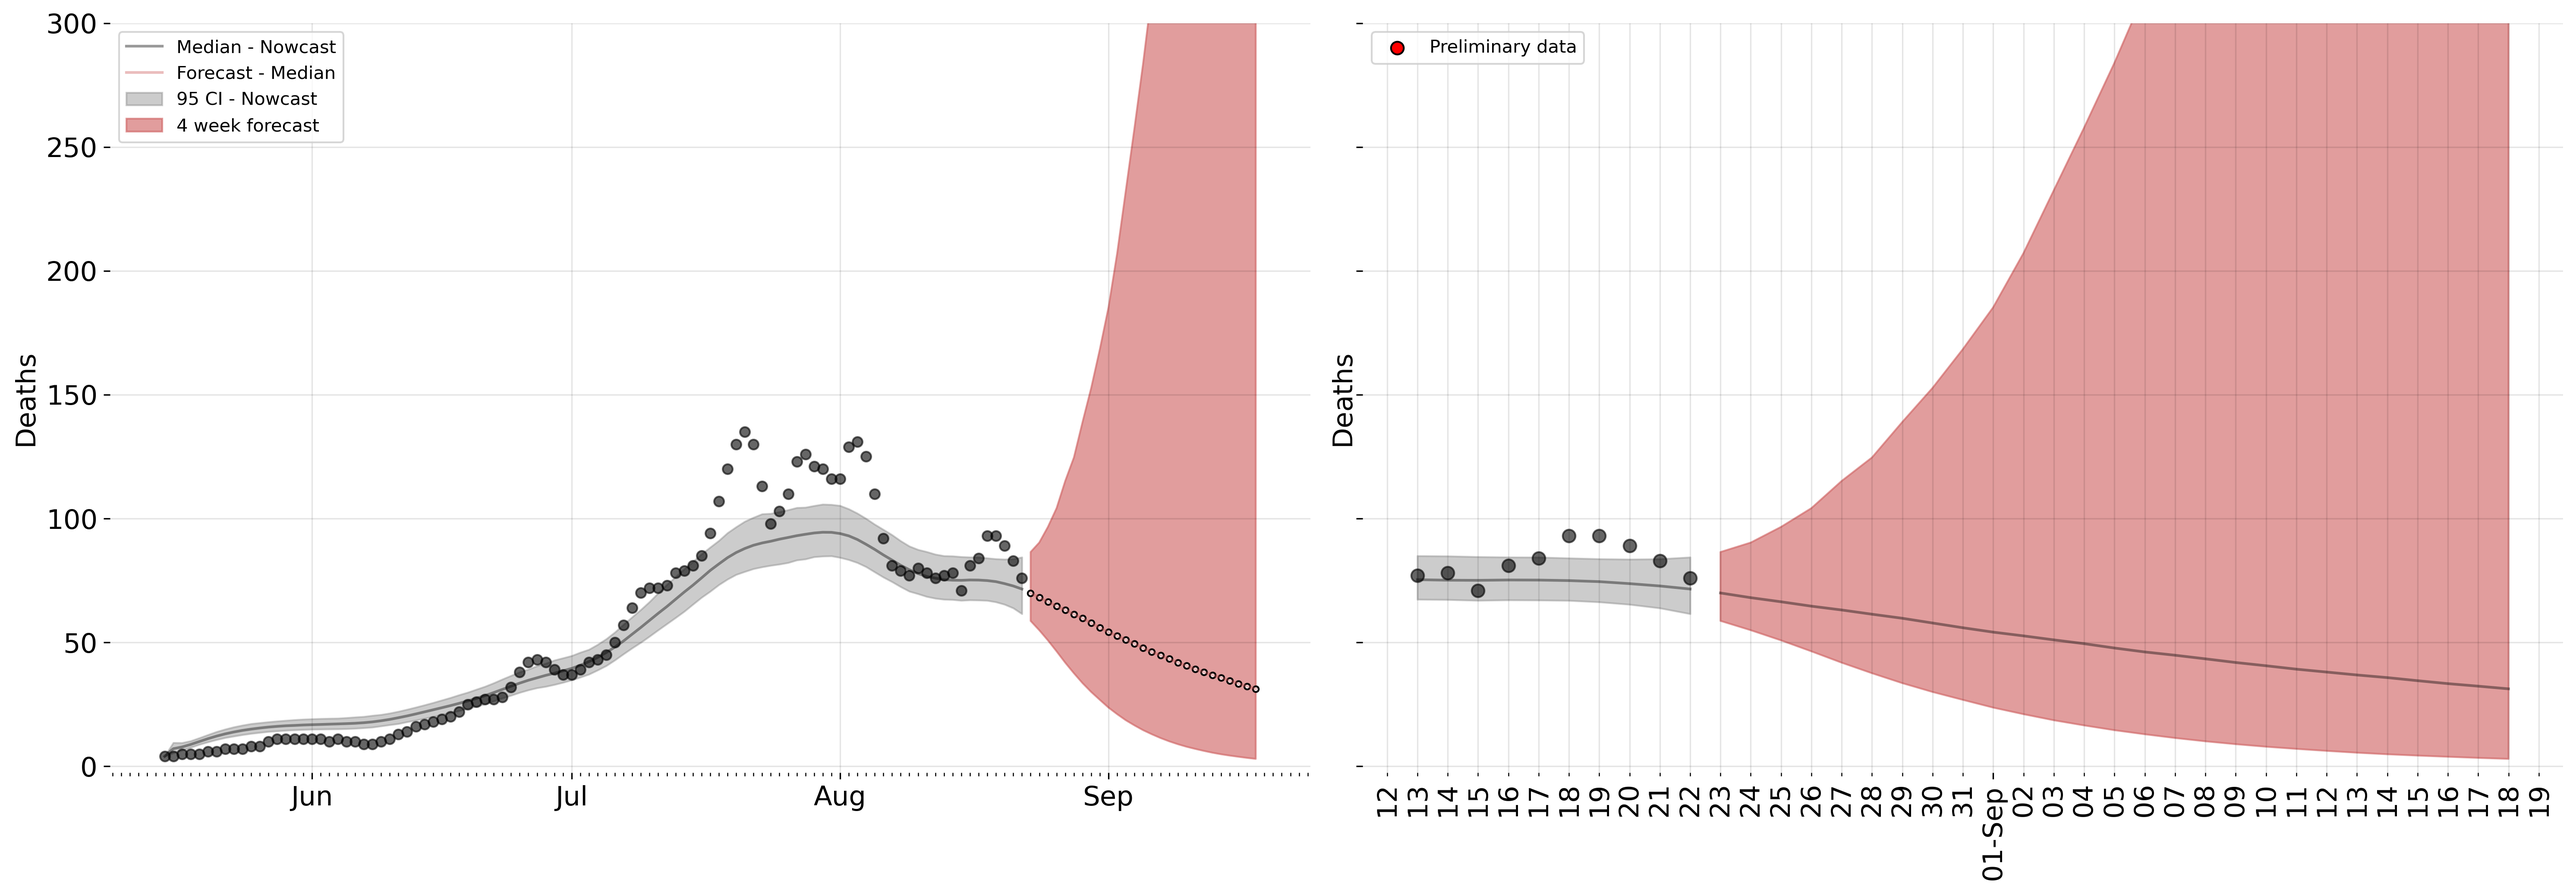
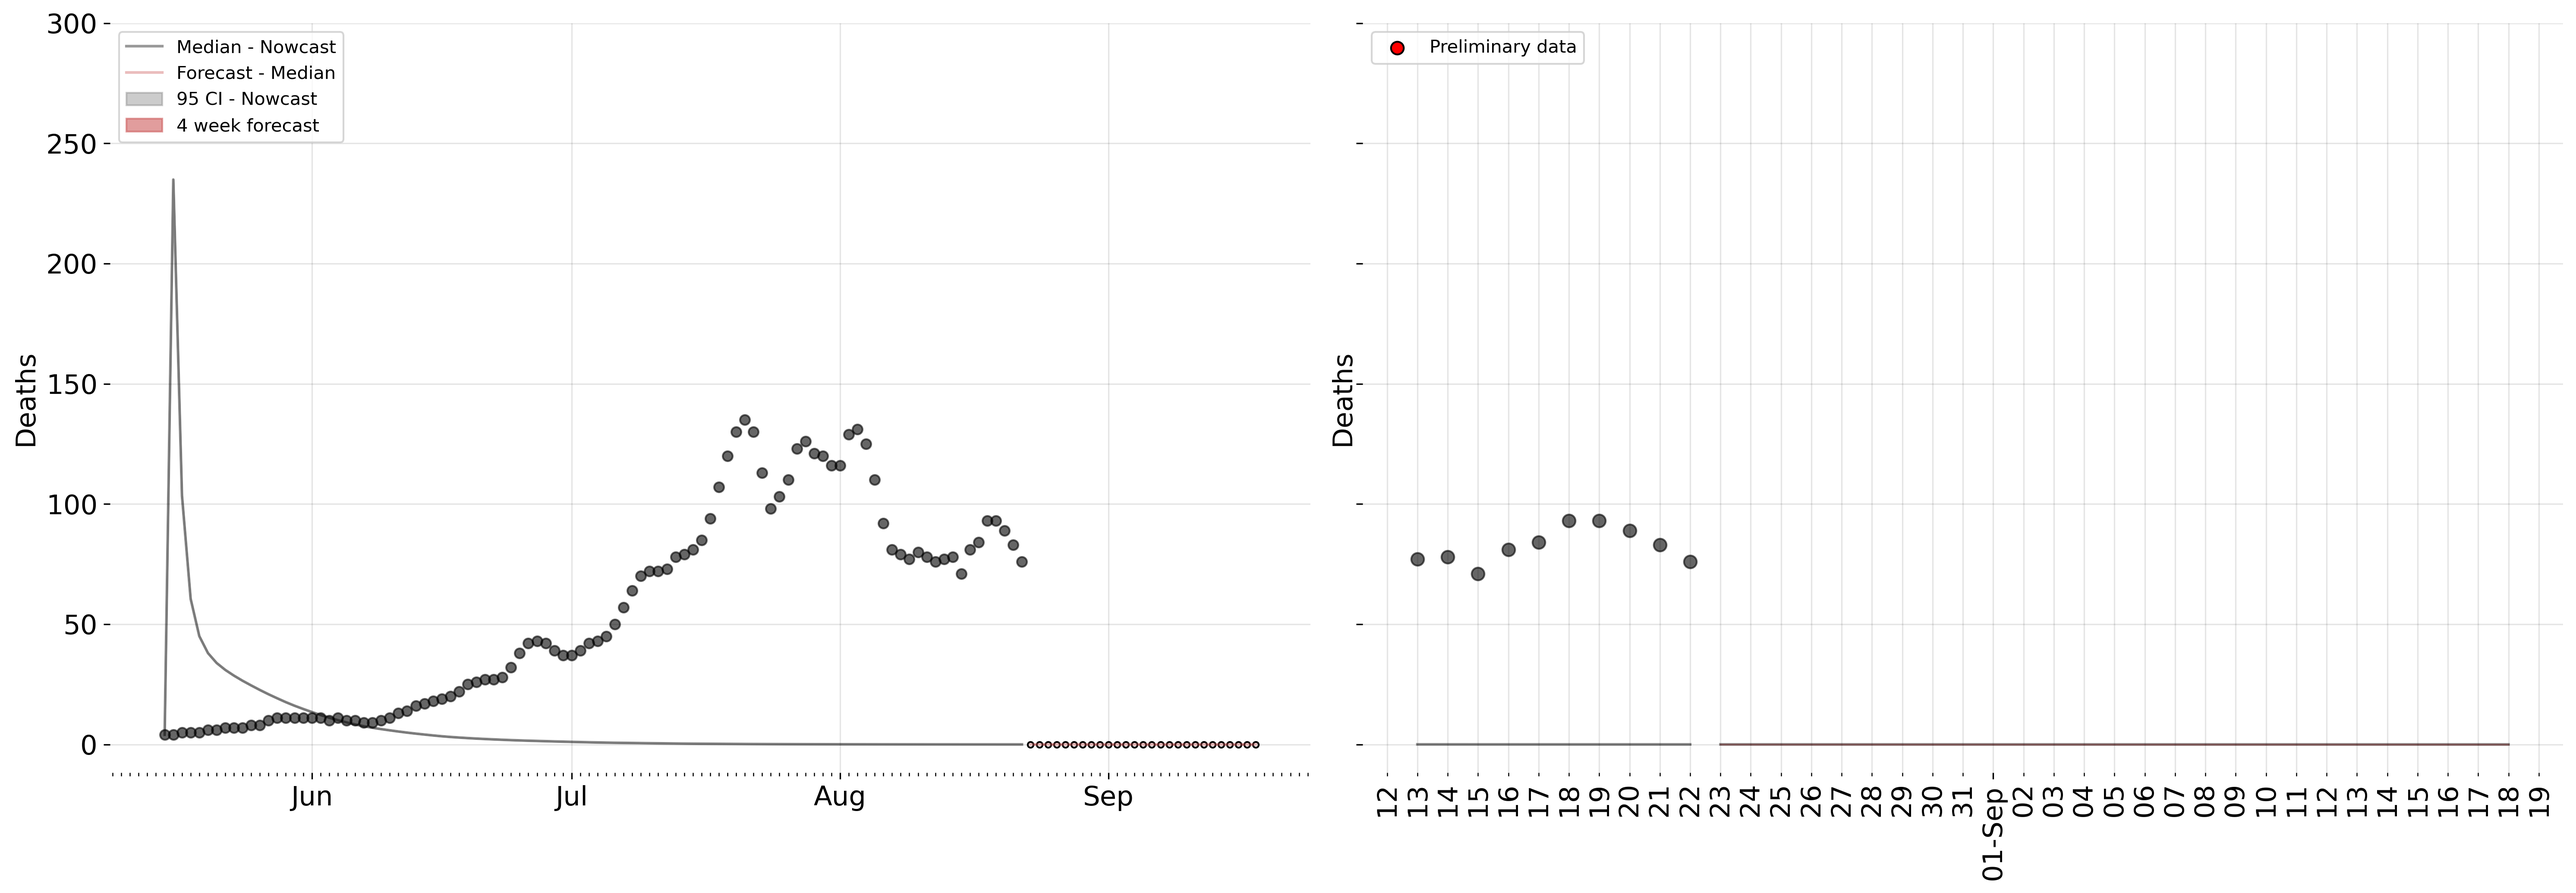
updating quantiles estimates

diff --git a/models/seirhd_model.py b/models/seirhd_model.py
@@ -24,32 +24,31 @@ class CompartmentModel(object):
         Compute time derivative
         '''
         raise NotImplementedError()
-        return
 
 
     @classmethod
-    def run(cls, T, x0, theta, **kwargs):
+    def run(cls, tspan, x0, theta, **kwargs):
         # Theta is a tuple of parameters. Entries are
         # scalars or vectors of length T-1
         is_scalar = [np.ndim(a)==0 for a in theta]
         if onp.all(is_scalar):
-            return cls._run_static(T, x0, theta, **kwargs)
+            return cls._run_static(tspan, x0, theta, **kwargs)
         else:
-            return cls._run_time_varying(T, x0, theta, **kwargs)
+            return cls._run_time_varying(tspan, x0, theta, **kwargs)
 
     @classmethod
-    def _run_static(cls, T, x0, theta, rtol=1e-5, atol=1e-3, mxstep=500):
+    def _run_static(cls, tmax, x0, theta, rtol=1e-5, atol=1e-3, mxstep=500):
         '''
         x0 is shape (d,)
         theta is shape (nargs,)
         '''
-        t = np.arange(T, dtype='float') + 0.
+        t = np.arange(tmax, dtype='float') + 0.
         return odeint(cls.dx_dt, x0, t, *theta)
 
     @classmethod
-    def _run_time_varying(cls, T, x0, theta, rtol=1e-5, atol=1e-3, mxstep=500):
+    def _run_time_varying(cls, tmax, x0, theta, rtol=1e-5, atol=1e-3, mxstep=500):
 
-        theta = tuple(np.broadcast_to(a, (T-1,)) for a in theta)
+        theta = tuple(np.broadcast_to(a, (tmax-1,)) for a in theta)
 
         '''
         x0 is shape (d,)
@@ -62,7 +61,7 @@ class CompartmentModel(object):
             return x1, x1
 
         # Run T–1 steps of the dynamics starting from the intial distribution
-        _, X = jax.lax.scan(advance, x0, theta, T-1)
+        _, X = jax.lax.scan(advance, x0, theta, tmax-1)
         return np.vstack((x0, X))
 
     @classmethod
@@ -253,13 +252,13 @@ class SEIRModel(CompartmentModel):
         S, E, I, R, C = x
         N = S + E + I + R
 
-        dS_dt = - beta * S * I / N
-        dE_dt = beta * S * I / N - sigma * E
-        dI_dt = sigma * E - gamma * I
-        dR_dt = gamma * I
-        dC_dt = sigma * E  # incidence
+        sdot = - beta * S * I / N
+        edot = beta * S * I / N - sigma * E
+        idot = sigma * E - gamma * I
+        rdot = gamma * I
+        cdot = sigma * E  # incidence
 
-        return np.stack([dS_dt, dE_dt, dI_dt, dR_dt, dC_dt])
+        return np.stack([sdot, edot, idot, rdot, cdot])
 
     @classmethod
     def R0(cls, theta):
@@ -281,7 +280,7 @@ class SEIRModel(CompartmentModel):
     @classmethod
     def seed(cls, N=1e6, I=100., E=0.):
         '''
-        Seed infection. Return state vector for I exponsed out of N
+        Seed infection. Return state vector for I exposed out of N
         '''
         return np.stack([N-E-I, E, I, 0.0, I])
 
@@ -362,18 +361,18 @@ class SEIRHDModel(SEIRModel):
         S, E, I, R, H, U, D, C = x
         N = S + E + I + R + H + D
 
-        dS_dt = - beta * S * I / N
-        dE_dt = beta * S * I / N - sigma * E
-        dI_dt = sigma * E - gamma * (1 - hosp_prob) * I - gamma * hosp_prob * I
-        dH_dt = hosp_prob * gamma * I - death_rate * death_prob * H - gamma * (1 - death_prob) * H
-        dR_dt = gamma * (1-death_prob) * H + gamma * (1 - hosp_prob) * I
+        sdot = - beta * S * I / N
+        edot = beta * S * I / N - sigma * E
+        idot = sigma * E - gamma * (1 - hosp_prob) * I - gamma * hosp_prob * I
+        hdot = hosp_prob * gamma * I - death_rate * death_prob * H - gamma * (1 - death_prob) * H
+        rdot = gamma * (1-death_prob) * H + gamma * (1 - hosp_prob) * I
 
 
-        dU_dt = hosp_prob * gamma * I       # Cum hosp
-        dD_dt = death_rate * death_prob * H # Cum deaths
-        dC_dt = beta * S * I / N                # Cum incidence
+        udot = hosp_prob * gamma * I       # Cum hosp
+        ddot = death_rate * death_prob * H # Cum deaths
+        cdot = beta * S * I / N                # Cum incidence
 
-        return np.stack([dS_dt, dE_dt, dI_dt, dR_dt, dH_dt, dU_dt, dD_dt, dC_dt])
+        return np.stack([sdot, edot, idot, rdot, hdot, udot, ddot, cdot])
 
     @classmethod
     def seed(cls, N=1e6, I=100., E=0., R=0.0, U=0.0, H=0.0, D=0.0):
@@ -432,6 +431,8 @@ class SEIRHD(SEIRHDBase):
                  det_prob_conc = 50.,
                  confirmed_dispersion=0.3,
                  death_dispersion=0.3,
+                 hosp_prob  = 0.2,
+                 death_prob = 0.01,
                  hosp_dispersion=0.3,
                  rw_scale = 2e-1,
                  det_noise_scale=0.15,
@@ -497,10 +498,10 @@ class SEIRHD(SEIRHDBase):
                                               (1-.9) * 100))
 
         death_prob = numpyro.sample("death_prob",
-                                    dist.Beta(0.01 * 100, (1-0.01) * 100))
+                                    dist.Beta(death_prob * 100, (1-death_prob) * 100))
 
         hosp_prob = numpyro.sample("hosp_prob",
-                                    dist.Beta(0.2 * 100, (1-0.2) * 100))
+                                    dist.Beta(hosp_prob * 100, (1-hosp_prob) * 100))
                                     #dist.Beta(0.02 * 1000, (1-0.02) * 1000))
 
         death_rate = numpyro.sample("death_rate",

diff --git a/estimate_h.py b/estimate_h.py
@@ -43,8 +43,6 @@ data_all = data_all.dropna()
 # ax_tw.legend()
 # plt.show()
 
-
-
 data_all = data_all.resample('D').sum().fillna(0)[['num_cases','num_diseased', 'hospitalized']]
 data_all  = prepare_cases(data_all, col='num_cases', cutoff=0)
 data_all  = prepare_cases(data_all, col='num_diseased', cutoff=0)
@@ -60,6 +58,7 @@ model = SEIRHD(
     death            = data_all['death'].cumsum(),
     T                = len(data_all),
     N                = 8181047,
+    hosp_prob        = 0.1
     )
 
 T_future = 27
@@ -91,7 +90,13 @@ from functions.samples_utils import create_df_response
 df_hosp   = create_df_response(hosp_fitted, time=len(data_all), date_init ='2020-05-15',  forecast_horizon=27, use_future=True)
 df_deaths = create_df_response(deaths_fitted, time=len(data_all), date_init ='2020-05-15',  forecast_horizon=27, use_future=True)
 df_cases  = create_df_response(cases_fitted, time=len(data_all), date_init ='2020-05-15',  forecast_horizon=27, use_future=True)
+
+beta_samples = np.concatenate((np.expand_dims(samples["beta0"],-1), samples["beta"] ), axis=1)
+df_contact_rate  = create_df_response(beta_samples , time=beta_samples.shape[-1], date_init ='2020-05-15',  forecast_horizon=27, use_future=False)
+
+
 from functions.plot_utils import plot_fit
+from functions.plot_utils import *
 
 data_all['type'] = 'fitted'
 plot_fit(df_deaths, data_all, col_data='death',   y_lim_up = 300, y_label='Deaths', color='indianred', path_to_save='figures/mcmc_2/deaths.png')
@@ -99,6 +104,29 @@ plot_fit(df_cases,  data_all, col_data='confirmed',  y_lim_up = 7000,  y_label='
 plot_fit(df_hosp, data_all,   col_data='hospitalized',   y_lim_up = 5000, y_label='Hospitalization', color='blue', path_to_save='figures/mcmc_2/hosp.png')
 
 
+fig, ax = plt.subplots(1, 1, figsize=(15.5, 7))
+ax.plot(df_contact_rate.index.values, df_contact_rate["median"], color='darkred', alpha=0.4, label='Median - Nowcast')
+ax.fill_between(df_contact_rate.index.values, df_contact_rate["low_95"], df_contact_rate["high_95"], color='darkred', alpha=0.4, label='95 CI - Nowcast')
+ax.fill_between(df_contact_rate.index.values, df_contact_rate["low_80"], df_contact_rate["high_80"], color='darkred', alpha=0.4, label='95 CI - Nowcast')
+ax.fill_between(df_contact_rate.index.values, df_contact_rate["low_50"], df_contact_rate["high_50"], color='darkred', alpha=0.4, label='95 CI - Nowcast')
+(y1_l, y2_l) = ax.get_ylim()
+# ax.scatter(dates_forecast, median[num_times-1:num_times+num_forecast-1], edgecolor='k', facecolor='white')#, label='Deaths')
+ax.xaxis.set_major_locator(mdates.MonthLocator())
+ax.xaxis.set_major_formatter(mdates.DateFormatter('%b'))
+ax.xaxis.set_minor_locator(mdates.DayLocator())
+ax.xaxis.set_major_locator(mdates.WeekdayLocator())
+ax.xaxis.set_major_locator(mdates.MonthLocator())
+ax.spines['top'].set_visible(False)
+ax.spines['right'].set_visible(False)
+ax.spines['left'].set_visible(False)
+ax.spines['bottom'].set_visible(False)
+ax.grid(which='major', axis='y', c='k', alpha=.1, zorder=-2)
+ax.tick_params(axis='both', labelsize=15)
+ax.yaxis.set_major_formatter(ticker.StrMethodFormatter("{x:.1f}"))
+#ax.axvline(x = 37, linestyle='--',  label = '{}'.format(dates[-1].strftime('%b-%d')))
+ax.set_ylabel(r'$\beta(t)$ - Contact Rate', size=15)
+fig.savefig(os.path.join('figures', 'mcmc_2', 'contact_rate.png'), dpi=300, bbox_inches='tight', transparent=False)
+plt.close()
 
 save_fields=['beta0', 'beta', 'sigma', 'gamma', 'dy0', 'dy', 'mean_dy', 'mean_dy0',  'dy_future', 'mean_dy_future',
                 'dz0', 'dz', 'dz_future', 'mean_dz', 'mean_dz0', 'mean_dz_future',

diff --git a/functions/samples_utils.py b/functions/samples_utils.py
@@ -1,7 +1,7 @@
 import pandas as pd
 import datetime
 
-def create_df_response(samples, time, date_init ='2020-03-06',  forecast_horizon=27, use_future=False):
+def create_df_response(samples, time, date_init ='2020-03-06',  quantiles = [50, 80, 95], forecast_horizon=27, use_future=False):
     """[summary]
 
     Args:
@@ -28,14 +28,13 @@ def create_df_response(samples, time, date_init ='2020-03-06',  forecast_horizon
     df_response['mean']        = results_df.mean(axis=1).values
     df_response['median']      = results_df.median(axis=1).values
     df_response['std']         = results_df.std(axis=1).values
-    df_response['low_975']      = results_df.quantile(q=0.025, axis=1).values
-    df_response['high_975']     = results_df.quantile(q=0.975, axis=1).values
 
-    df_response['low_90']      = results_df.quantile(q=0.1, axis=1).values
-    df_response['high_90']     = results_df.quantile(q=0.9, axis=1).values
+    for quant in quantiles:
+        low_q  = ((100-quant)/2)/100
+        high_q = 1-low_q
 
-    df_response['low_75']      = results_df.quantile(q=0.25, axis=1).values
-    df_response['high_75']     = results_df.quantile(q=0.75, axis=1).values
+        df_response[f'low_{quant}']  = results_df.quantile(q=low_q, axis=1).values
+        df_response[f'high_{quant}'] = results_df.quantile(q=high_q, axis=1).values
 
     df_response['type']        =  types
     df_response.index.name = 'date'

diff --git a/functions/plot_utils.py b/functions/plot_utils.py
@@ -10,9 +10,9 @@ from mpl_toolkits.axes_grid1.inset_locator import mark_inset
 from mpl_toolkits.axes_grid.inset_locator import inset_axes
 
 import os
-def plot_fit(df_fit, df_data, y_label='Deaths', y_lim_up = 200, color='blue', col_data='smoothed_death', col_up='high_975', col_down='low_975', col_point='median', ax=None,   forecast=True, path_to_save=None):
+def plot_fit(df_fit, df_data, y_label='Deaths', y_lim_up = 200, color='blue', col_data='smoothed_death', col_up='high_95', col_down='low_95', col_point='median', ax=None,   forecast=True, path_to_save=None):
     """ df_fit with columns:
-            'mean', 'median', 'std', 'low_975', 'high_975', 'low_90', 'high_90', 'low_75', 'high_75', 'type'
+            'mean', 'median', 'std', 'low_95', 'high_95', 'low_80', 'high_80', 'low_50', 'high_50', 'type'
             type in ['estimate', 'forecast']
 
         df_data with columns:

diff --git a/plot_parameters_figures.py b/plot_parameters_figures.py
@@ -56,11 +56,13 @@ def load_samples(filename):
     return mcmc_samples, post_pred_samples, forecast_samples
 
 
+
 mcmc_samples, _, _ = load_samples(os.path.join(path_to_save, 'samples.npz'))
 
 beta = mcmc_samples['beta']
 
-beta_df = create_df_response(beta, beta.shape[-1], date_init ='2020-03-06',  forecast_horizon=27, use_future=False)
+beta_df = create_df_response(beta, beta.shape[-1], date_init ='2020-03-06', quantiles = [50, 80, 95],  forecast_horizon=int(7*4), use_future=False)
+
 
 fig, ax = plt.subplots(1, 1, figsize=(15.5, 7))
 ax.plot(beta_df.index.values, beta_df["median"], color='darkred', alpha=0.4, label='Median - Nowcast')
